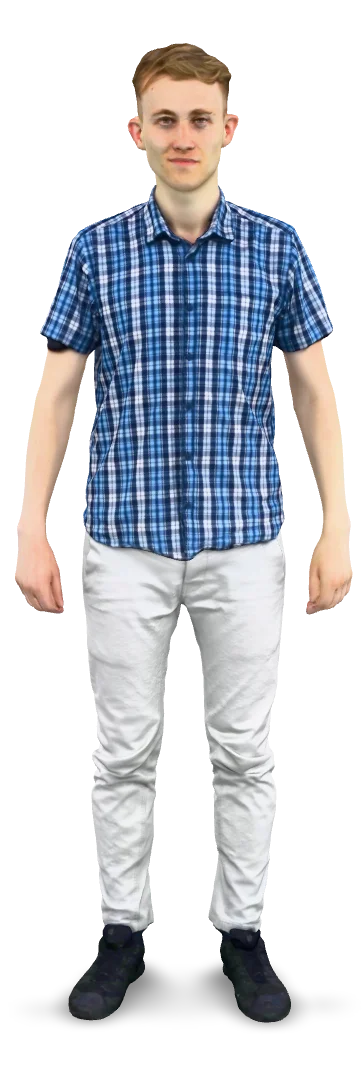
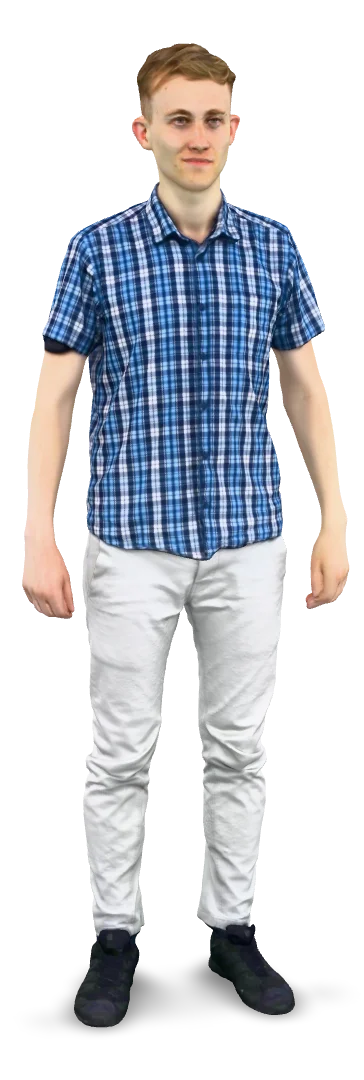
test

Changed region(s): [[0.0302, 0.0306, 0.967, 0.9778], [0.3324, 0.6417, 0.3626, 0.6722], [0.0907, 0.3361, 0.1209, 0.3667]]

diff --git a/model/styles.css b/model/styles.css
@@ -48,62 +48,3 @@ model-viewer {
   float: left;
   transition: width 0.3s;
 }
-
-#ar-button {
-  background-image: url(ar_icon.png);
-  background-repeat: no-repeat;
-  background-size: 20px 20px;
-  background-position: 12px 50%;
-  background-color: #fff;
-  position: absolute;
-  left: 50%;
-  transform: translateX(-50%);
-  white-space: nowrap;
-  bottom: 16px;
-  padding: 0px 16px 0px 40px;
-  font-family: Roboto Regular, Helvetica Neue, sans-serif;
-  font-size: 14px;
-  color:#4285f4;
-  height: 36px;
-  line-height: 36px;
-  border-radius: 18px;
-  border: 1px solid #DADCE0;
-}
-
-#ar-button:active {
-  background-color: #E8EAED;
-}
-
-#ar-button:focus {
-  outline: none;
-}
-
-#ar-button:focus-visible {
-  outline: 1px solid #4285f4;
-}
-
-@keyframes circle {
-  from { transform: translateX(-50%) rotate(0deg) translateX(50px) rotate(0deg); }
-  to   { transform: translateX(-50%) rotate(360deg) translateX(50px) rotate(-360deg); }
-}
-
-@keyframes elongate {
-  from { transform: translateX(100px); }
-  to   { transform: translateX(-100px); }
-}
-
-model-viewer > #ar-prompt {
-  position: absolute;
-  left: 50%;
-  bottom: 60px;
-  animation: elongate 2s infinite ease-in-out alternate;
-  display: none;
-}
-
-model-viewer[ar-status="session-started"] > #ar-prompt {
-  display: block;
-}
-
-model-viewer > #ar-prompt > img {
-  animation: circle 4s linear infinite;
-}

diff --git a/model/index.html b/model/index.html
@@ -9,15 +9,9 @@
   </head>
   <body>
     <!-- <model-viewer> HTML element -->
-    <model-viewer src="me.glb" ar ar-modes="webxr scene-viewer quick-look" camera-controls tone-mapping="neutral" poster="poster.webp" shadow-intensity="1" camera-orbit="27deg 75deg 3.957m" field-of-view="30deg" auto-rotate>
+    <model-viewer src="me.glb" ar ar-modes="webxr scene-viewer quick-look" camera-controls tone-mapping="neutral" poster="poster.webp" shadow-intensity="1" camera-orbit="117deg 80deg 3.957m" field-of-view="30deg" auto-rotate>
       <div class="progress-bar hide" slot="progress-bar">
           <div class="update-bar"></div>
-      </div>
-      <button slot="ar-button" id="ar-button">
-          View in your space
-      </button>
-      <div id="ar-prompt">
-          <img src="ar_hand_prompt.png">
       </div>
     </model-viewer>  
     <script src="script.js"></script>
